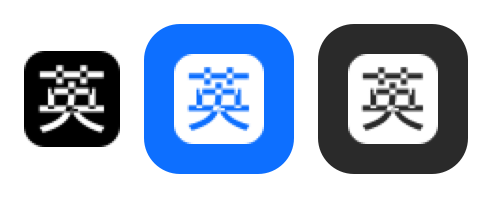
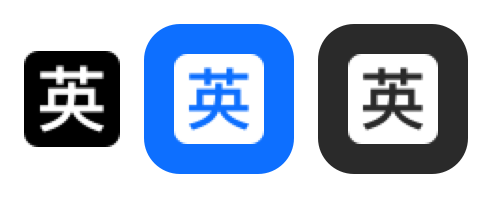
fix: 图标交叉点填回底色的 bug，尺寸参数改为量自系统图标
三个问题：

1. 「英」字笔画交叉处出现底色斑点。原因是把方块和字形合成一条路径用
   even-odd 填充，字形自身笔画交叠的地方被判成「外部」又填了回来。改成
   先填方块、再用 destination-out 把字形擦掉：擦除是逐像素相减，交叠
   多少次都只是擦掉。
2. 圆角 0.22H 比系统大 41%，量了系统图标改成 0.152H。系统那批图标在
   SCIM.app/Contents/PlugIns/SCIM_Extension.appex/Contents/Resources/ 下，
   之前只翻 .app/Contents/Resources 所以没找到。
3. 常规字重的中文笔画挖空到 16pt 会糊，改用 Semibold。

另外把宽高比提成参数。中途试过做成横向长方形，但系统自带的 20 个输入法
图标实测全是 1:1，所以维持正方形；参数保留并在注释里记下：若要改长方形，
逻辑宽必须落在整数上，20.8pt 这种在 2x 屏上要 41.6 个像素而位图只有 42 个，
整张图上屏前会被重采样一遍。

diff --git a/make-icon.m b/make-icon.m
@@ -16,17 +16,23 @@
 #import <Cocoa/Cocoa.h>
 #import <CoreText/CoreText.h>
 
-static const CGFloat kPointSize = 16.0;    // 菜单栏图标的逻辑尺寸
-static const CGFloat kCornerRatio = 0.22;  // 圆角占边长比例，对齐系统图标
-static const CGFloat kInkRatio = 0.70;     // 字形墨迹占边长比例
+static const CGFloat kHeight = 16.0;       // 菜单栏图标的逻辑高度
+// 宽高比。系统自带的输入法图标（SCIM/TCIM/Korean/Ainu 等 20 个）实测全是 1:1，
+// 这里跟随。若要改成长方形，注意让逻辑宽落在整数上（比如 1.3125 → 21pt）：
+// 20.8pt 这种在 2x 屏上要 41.6 个像素，而位图只有 42 个，整张图上屏前会被
+// 重采样一遍，边缘白白糊掉。
+static const CGFloat kAspect = 1.0;
+static const CGFloat kCornerRatio = 0.152; // 圆角占高度比例，量自系统输入法图标
+static const CGFloat kInkRatio = 0.6875;     // 字形墨迹占高度比例，量自系统「拼」「简」
 static NSString *const kGlyph = @"英";
 
 static NSBitmapImageRep *RepForScale(CGFloat scale) {
-    NSInteger px = (NSInteger)lround(kPointSize * scale);
+    NSInteger pw = (NSInteger)lround(kHeight * kAspect * scale);
+    NSInteger ph = (NSInteger)lround(kHeight * scale);
 
     NSBitmapImageRep *rep = [[NSBitmapImageRep alloc] initWithBitmapDataPlanes:NULL
-                                                                   pixelsWide:px
-                                                                   pixelsHigh:px
+                                                                   pixelsWide:pw
+                                                                   pixelsHigh:ph
                                                                 bitsPerSample:8
                                                               samplesPerPixel:4
                                                                      hasAlpha:YES
@@ -34,54 +40,66 @@ static NSBitmapImageRep *RepForScale(CGFloat scale) {
                                                                colorSpaceName:NSCalibratedRGBColorSpace
                                                                   bytesPerRow:0
                                                                  bitsPerPixel:0];
-    rep.size = NSMakeSize(kPointSize, kPointSize); // 逻辑尺寸锁在 16pt
+    rep.size = NSMakeSize(kHeight * kAspect, kHeight); // 逻辑尺寸锁在 16×16pt
 
     NSGraphicsContext *nsctx = [NSGraphicsContext graphicsContextWithBitmapImageRep:rep];
     [NSGraphicsContext saveGraphicsState];
     [NSGraphicsContext setCurrentContext:nsctx];
     CGContextRef ctx = nsctx.CGContext;
 
-    CGContextClearRect(ctx, CGRectMake(0, 0, px, px));
+    CGContextClearRect(ctx, CGRectMake(0, 0, pw, ph));
 
     // 上下文的坐标系跟着 rep.size 走（逻辑点），不是像素：在 2x/3x 的 rep 上
-    // CTM 已经带了 2/3 倍缩放，所以这里一律按 16pt 画，字形是矢量填充，
+    // CTM 已经带了 2/3 倍缩放，所以这里一律按逻辑点画，字形是矢量填充，
     // 高分辨率下自然更清晰。若误用像素值作边长，2x/3x 会画出 2/3 倍大的图形
     // 溢出画布，只剩左下一角。
-    CGFloat side = kPointSize;
+    CGFloat h = kHeight, w = kHeight * kAspect;
 
     // 系统 UI 字体不一定直接带中文字形，用 CTFontCreateForString 走一次 fallback。
-    // 用 Medium 字重：常规字重的中文笔画太细，挖空到 16pt 会糊成一团。
-    CTFontRef base = (__bridge_retained CTFontRef)[NSFont systemFontOfSize:side weight:NSFontWeightMedium];
+    // 用 Semibold：常规字重的中文笔画太细，挖空到 16pt 会糊成一团。
+    CTFontRef base = (__bridge_retained CTFontRef)[NSFont systemFontOfSize:h weight:NSFontWeightSemibold];
     CFRange full = CFRangeMake(0, (CFIndex)kGlyph.length);
     CTFontRef font = CTFontCreateForString(base, (__bridge CFStringRef)kGlyph, full);
     CFRelease(base);
 
     UniChar ch = [kGlyph characterAtIndex:0];
     CGGlyph glyph = 0;
-    CGMutablePathRef path = CGPathCreateMutable();
-    CGPathAddRoundedRect(path, NULL, CGRectMake(0, 0, side, side), side * kCornerRatio, side * kCornerRatio);
+    CGMutablePathRef boxPath = CGPathCreateMutable();
+    CGPathAddRoundedRect(boxPath, NULL, CGRectMake(0, 0, w, h), h * kCornerRatio, h * kCornerRatio);
+    CGMutablePathRef inkPath = CGPathCreateMutable();
     if (CTFontGetGlyphsForCharacters(font, &ch, &glyph, 1)) {
         CGPathRef glyphPath = CTFontCreatePathForGlyph(font, glyph, NULL);
         if (glyphPath) {
             // 先按墨迹缩放到目标比例，再按墨迹居中：不受字体行高/基线影响，
             // 换字体或换字符时视觉重心都不会跑。
             CGRect gb = CGPathGetBoundingBox(glyphPath);
-            CGFloat scale = side * kInkRatio / MAX(gb.size.width, gb.size.height);
+            CGFloat scale = h * kInkRatio / MAX(gb.size.width, gb.size.height);
             CGAffineTransform t = CGAffineTransformMakeScale(scale, scale);
             CGRect scaled = CGRectApplyAffineTransform(gb, t);
             t = CGAffineTransformConcat(
-                t, CGAffineTransformMakeTranslation((side - scaled.size.width) / 2 - scaled.origin.x,
-                                                    (side - scaled.size.height) / 2 - scaled.origin.y));
-            CGPathAddPath(path, &t, glyphPath);
+                t, CGAffineTransformMakeTranslation((w - scaled.size.width) / 2 - scaled.origin.x,
+                                                    (h - scaled.size.height) / 2 - scaled.origin.y));
+            CGPathAddPath(inkPath, &t, glyphPath);
             CGPathRelease(glyphPath);
         }
     }
     CFRelease(font);
 
+    // 先铺满方块
     CGContextSetGrayFillColor(ctx, 0.0, 1.0);
-    CGContextAddPath(ctx, path);
-    CGContextEOFillPath(ctx); // even-odd：方块减去字形
-    CGPathRelease(path);
+    CGContextAddPath(ctx, boxPath);
+    CGContextFillPath(ctx);
+
+    // 再用字形把方块擦出洞。不能把两条路径合起来一次 even-odd 填完：字形自身
+    // 笔画交叠的地方会被 even-odd 判成「外部」又填回来，交叉点就成了底色的斑点。
+    // destination-out 是逐像素相减，交叠多少次都只是擦掉。
+    CGContextSetBlendMode(ctx, kCGBlendModeDestinationOut);
+    CGContextAddPath(ctx, inkPath);
+    CGContextFillPath(ctx);
+    CGContextSetBlendMode(ctx, kCGBlendModeNormal);
+
+    CGPathRelease(boxPath);
+    CGPathRelease(inkPath);
 
     [NSGraphicsContext restoreGraphicsState];
     return rep;
@@ -98,7 +116,7 @@ int main(int argc, const char *argv[]) {
             fprintf(stderr, "write failed: %s\n", out.UTF8String);
             return 1;
         }
-        printf("wrote %s (%.0fpt, 1x/2x/3x)\n", out.UTF8String, kPointSize);
+        printf("wrote %s (%.1f×%.0fpt, 1x/2x/3x)\n", out.UTF8String, kHeight * kAspect, kHeight);
     }
     return 0;
 }

diff --git a/README-横向候选窗.md b/README-横向候选窗.md
@@ -24,9 +24,11 @@
 
 **菜单栏与切换提示的图标**
 
-<img alt="与系统图标对比" src="docs/images/menubar-icon.png" width="220">
+<img alt="与系统图标对比" src="docs/images/menubar-icon.png" width="260">
 
-图标是「圆角方块挖空一个『英』字」的模板图标，跟系统自带输入法同一个画法——上图左边是系统 AinuIM 的图标作参照，右边是本输入法。模板图标只有 alpha 有意义，由系统按场景填色：
+图标是「圆角方块挖空一个『英』字」的模板图标，跟系统自带输入法同一个画法——上图左起是系统的「拼」和「简」，最右是本输入法。尺寸 16×16pt、圆角 0.152H、字形墨迹 0.6875H，这几个数都是量自系统图标的（它们藏在 `SCIM.app/Contents/PlugIns/SCIM_Extension.appex/Contents/Resources/` 里）。
+
+模板图标只有 alpha 有意义，由系统按场景填色：
 
 <img alt="三种填色场景" src="docs/images/menubar-icon-states.png" width="300">
 
